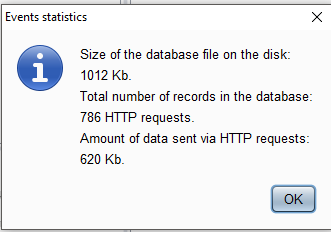
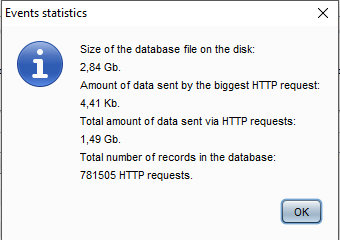
#8 Add stats about the size of the biggest request sent and add the formatting in KB,MB and GB.

diff --git a/src/burp/ConfigMenu.java b/src/burp/ConfigMenu.java
@@ -151,9 +151,10 @@ class ConfigMenu implements Runnable, IExtensionStateListener {
                             //Get the data
                             DBStats stats = ConfigMenu.this.activityLogger.getEventsStats();
                             //Build the message
-                            String buffer = "Size of the database file on the disk: \n\r" + (stats.getSizeOnDisk() / 1024) + " Kb.\n\r";
-                            buffer += "Total number of records in the database: \n\r" + stats.getTotalRecordCount() + " HTTP requests.\n\r";
-                            buffer += "Amount of data sent via HTTP requests: \n\r" + (stats.getTotalRequestsSize() / 1024) + " Kb.";
+                            String buffer = "Size of the database file on the disk: \n\r" + formatStat(stats.getSizeOnDisk()) + ".\n\r";
+                            buffer += "Amount of data sent by the biggest HTTP request: \n\r" + formatStat(stats.getBiggestRequestSize()) + ".\n\r";
+                            buffer += "Total amount of data sent via HTTP requests: \n\r" + formatStat(stats.getTotalRequestsSize()) + ".\n\r";
+                            buffer += "Total number of records in the database: \n\r" + stats.getTotalRecordCount() + " HTTP requests.";
                             //Display the information via the UI
                             JOptionPane.showMessageDialog(ConfigMenu.getBurpFrame(), buffer, "Events statistics", JOptionPane.INFORMATION_MESSAGE);
                         } catch (Exception exp) {
@@ -199,12 +200,41 @@ class ConfigMenu implements Runnable, IExtensionStateListener {
      * @return BURP main frame.
      * @see "https://github.com/PortSwigger/param-miner/blob/master/src/burp/Utilities.java"
      */
-    public static JFrame getBurpFrame() {
+    static JFrame getBurpFrame() {
         for (Frame f : Frame.getFrames()) {
             if (f.isVisible() && f.getTitle().startsWith(("Burp Suite"))) {
                 return (JFrame) f;
             }
         }
         return null;
+    }
+
+    /**
+     * Format a statistic value in KB, MB or GB according to the value passed.
+     *
+     * @param stat Number of bytes.
+     * @return Formatted value.
+     */
+    static String formatStat(long stat) {
+
+        //Units
+        double oneKB = 1024;
+        double oneMB = 1048576;
+        double oneGB = 1073741824;
+
+        //Determine the unit the use
+        double unit = oneKB;
+        String unitLabel = "Kb";
+        if (stat >= oneGB) {
+            unit = oneGB;
+            unitLabel = "Gb";
+        } else if (stat >= oneMB) {
+            unit = oneMB;
+            unitLabel = "Mb";
+        }
+
+        //Computing
+        double amount = stat / unit;
+        return String.format("%.2f %s", amount, unitLabel);
     }
 }

diff --git a/src/burp/ActivityLogger.java b/src/burp/ActivityLogger.java
@@ -21,7 +21,8 @@ class ActivityLogger implements IExtensionStateListener {
     private static final String SQL_TABLE_CREATE = "CREATE TABLE IF NOT EXISTS ACTIVITY (LOCAL_SOURCE_IP TEXT, TARGET_URL TEXT, HTTP_METHOD TEXT, BURP_TOOL TEXT, REQUEST_RAW TEXT, SEND_DATETIME TEXT)";
     private static final String SQL_TABLE_INSERT = "INSERT INTO ACTIVITY (LOCAL_SOURCE_IP,TARGET_URL,HTTP_METHOD,BURP_TOOL,REQUEST_RAW,SEND_DATETIME) VALUES(?,?,?,?,?,?)";
     private static final String SQL_COUNT_RECORDS = "SELECT COUNT(HTTP_METHOD) FROM ACTIVITY";
-    private static final String SQL_AMOUNT_DATA_SENT = "SELECT TOTAL(LENGTH(REQUEST_RAW)) FROM ACTIVITY";
+    private static final String SQL_TOTAL_AMOUNT_DATA_SENT = "SELECT TOTAL(LENGTH(REQUEST_RAW)) FROM ACTIVITY";
+    private static final String SQL_BIGGEST_REQUEST_AMOUNT_DATA_SENT = "SELECT MAX(LENGTH(REQUEST_RAW)) FROM ACTIVITY";
 
 
     /**
@@ -122,18 +123,25 @@ class ActivityLogger implements IExtensionStateListener {
                 recordsCount = rst.getLong(1);
             }
         }
-        //Get the amount of data sent, we assume here that 1 character = 1 byte
-        long amountDataSent;
-        try (PreparedStatement stmt = this.storageConnection.prepareStatement(SQL_AMOUNT_DATA_SENT)) {
+        //Get the total amount of data sent, we assume here that 1 character = 1 byte
+        long totalAmountDataSent;
+        try (PreparedStatement stmt = this.storageConnection.prepareStatement(SQL_TOTAL_AMOUNT_DATA_SENT)) {
             try (ResultSet rst = stmt.executeQuery()) {
-                amountDataSent = rst.getLong(1);
+                totalAmountDataSent = rst.getLong(1);
+            }
+        }
+        //Get the amount of data sent by the biggest request, we assume here that 1 character = 1 byte
+        long biggestRequestAmountDataSent;
+        try (PreparedStatement stmt = this.storageConnection.prepareStatement(SQL_BIGGEST_REQUEST_AMOUNT_DATA_SENT)) {
+            try (ResultSet rst = stmt.executeQuery()) {
+                biggestRequestAmountDataSent = rst.getLong(1);
             }
         }
         //Get the size of the file on the disk
         String fileLocation = this.url.replace("jdbc:sqlite:", "").trim();
         long fileSize = Paths.get(fileLocation).toFile().length();
         //Build the VO and return it
-        return new DBStats(fileSize, recordsCount, amountDataSent);
+        return new DBStats(fileSize, recordsCount, totalAmountDataSent, biggestRequestAmountDataSent);
     }
 
     /**

diff --git a/src/burp/DBStats.java b/src/burp/DBStats.java
@@ -8,19 +8,29 @@ class DBStats {
      * Size on the DB file on disk in bytes
      */
     private long sizeOnDisk;
+
     /**
      * Total number of record in the DB main table used
      */
     private long totalRecordCount;
+
     /**
      * Amount of data sent via the total size of all HTTP requests
      */
     private long totalRequestsSize;
 
-    DBStats(long sizeOnDisk, long totalRecordCount, long totalRequestsSize) {
+    /**
+     * Amount of data sent by the biggest request sent.
+     */
+    private long biggestRequestSize;
+
+
+
+    DBStats(long sizeOnDisk, long totalRecordCount, long totalRequestsSize, long biggestRequestSize) {
         this.sizeOnDisk = sizeOnDisk;
         this.totalRecordCount = totalRecordCount;
         this.totalRequestsSize = totalRequestsSize;
+        this.biggestRequestSize = biggestRequestSize;
     }
 
     long getSizeOnDisk() {
@@ -33,5 +43,9 @@ class DBStats {
 
     long getTotalRequestsSize() {
         return totalRequestsSize;
+    }
+
+    public long getBiggestRequestSize() {
+        return biggestRequestSize;
     }
 }
